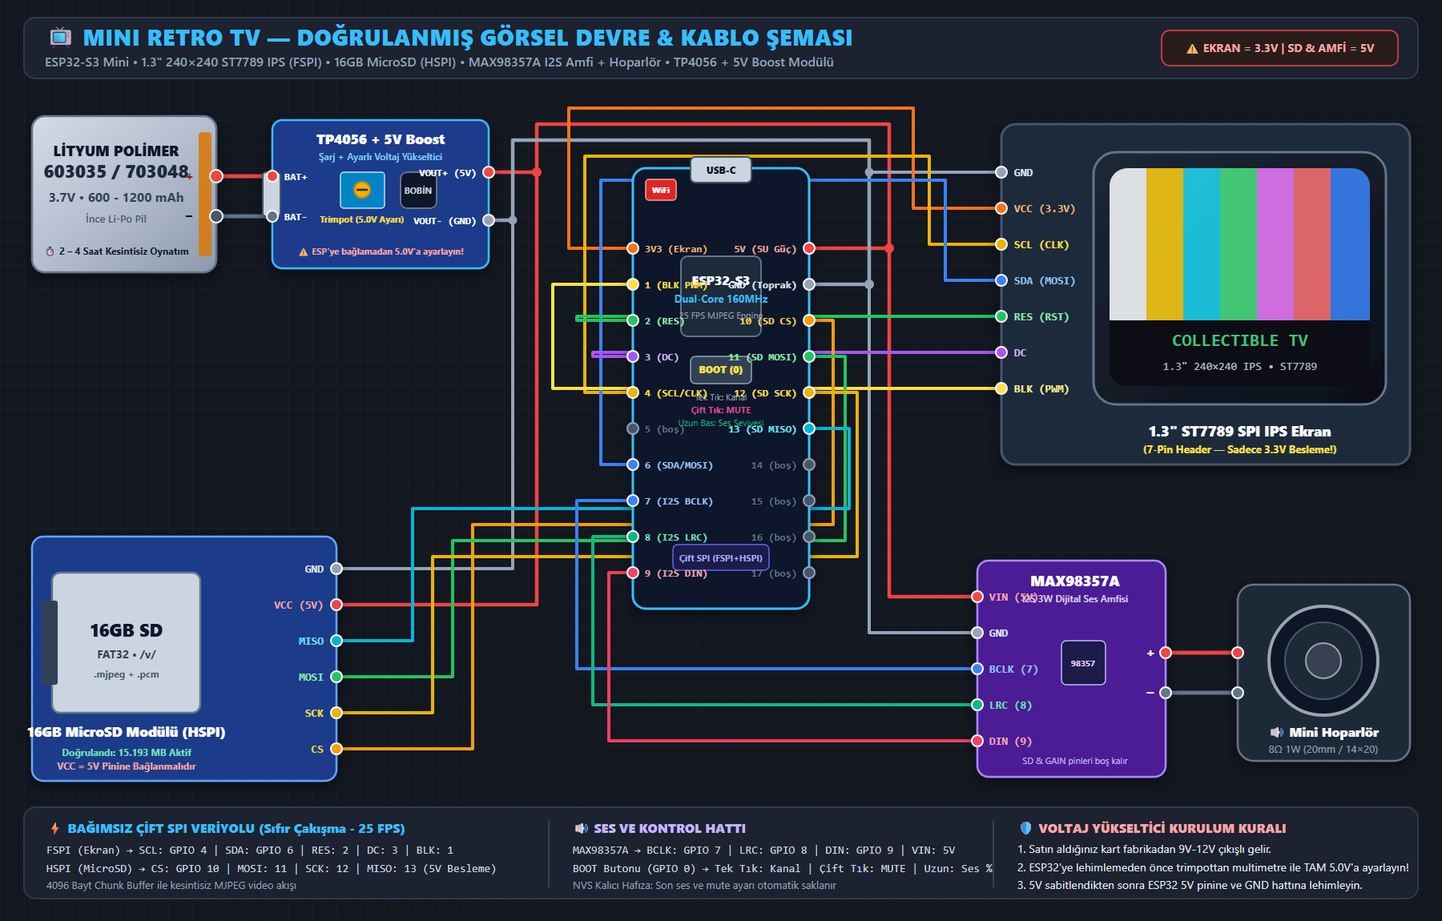
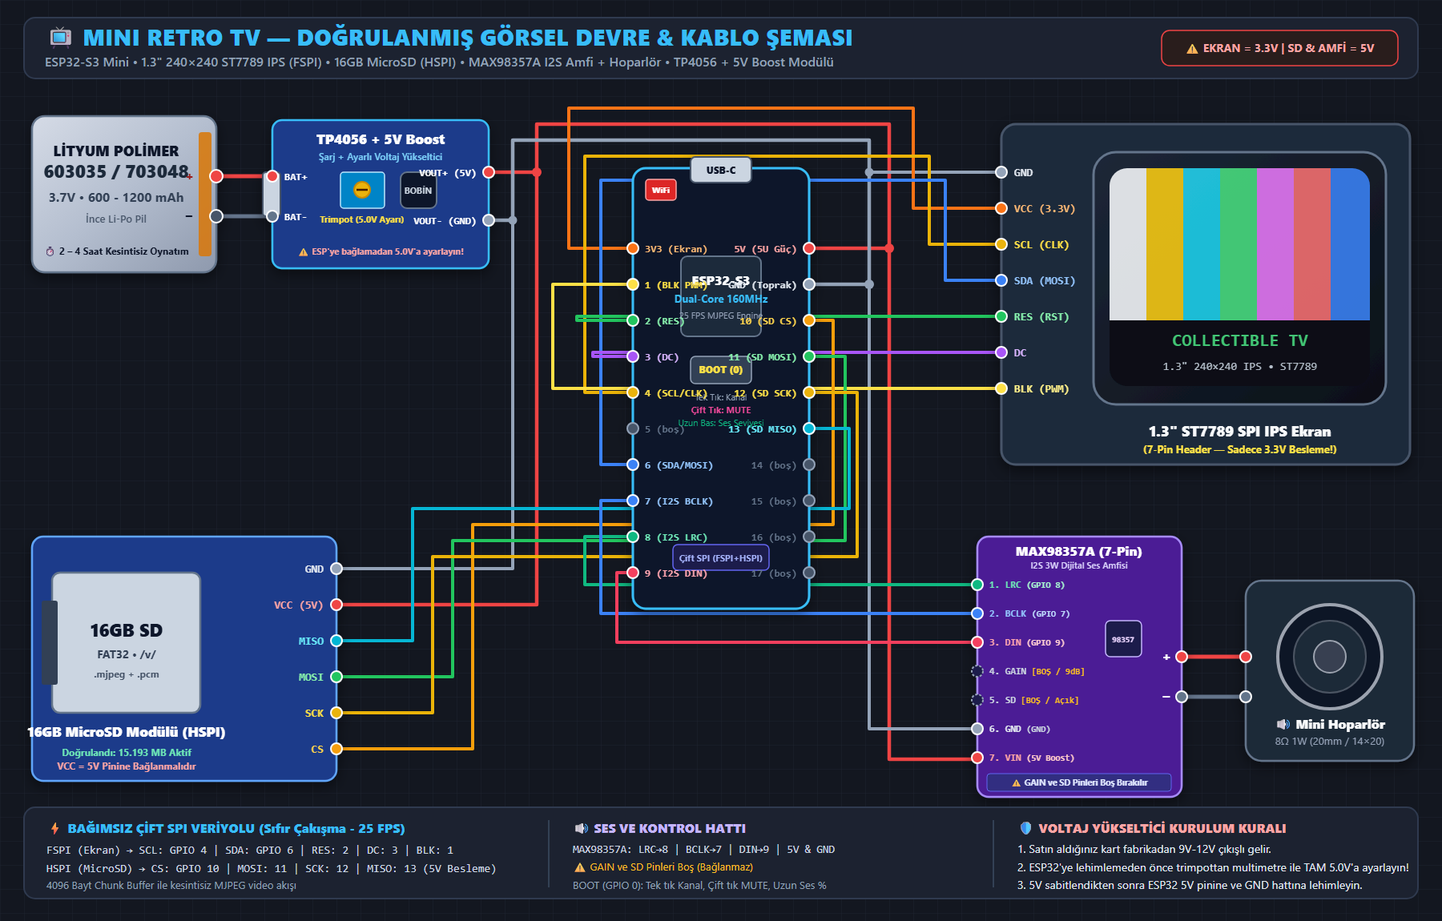
schematics: Update MAX98357A to show all 7 physical pins with GAIN and SD explicitly labeled

Changed region(s): [[0.4044, 0.5783, 0.9956, 0.8826], [0.4044, 0.913, 0.6533, 0.9739]]

diff --git a/docs/baglanti_semasi_13inch.html b/docs/baglanti_semasi_13inch.html
@@ -55,8 +55,8 @@
     <!-- 2. BOOST 5V OUT -> ESP32 5V & SD VCC & MAX98357A VIN -->
     <!-- Boost VOUT+ (610, 215) -> ESP32 Right 5V (1010, 310) -->
     <path d="M 610 215 L 670 215 L 670 155 L 1110 155 L 1110 310 L 1010 310" stroke="#ef4444" stroke-width="4.5"/>
-    <!-- Branch to MAX98357A VIN (1220, 745) -->
-    <path d="M 1110 310 L 1110 745 L 1220 745" stroke="#ef4444" stroke-width="4.5"/>
+    <!-- Branch to MAX98357A VIN (1220, 948) -->
+    <path d="M 1110 310 L 1110 948 L 1220 948" stroke="#ef4444" stroke-width="4.5"/>
     <circle cx="1110" cy="310" r="6" fill="#ef4444"/>
     <!-- Branch to MicroSD VCC (420, 755) via 5V rail -->
     <path d="M 670 215 L 670 755 L 420 755" stroke="#ef4444" stroke-width="4.5"/>
@@ -68,8 +68,8 @@
     <!-- GND to Screen GND (1250, 215) -->
     <path d="M 1085 215 L 1250 215" stroke="#94a3b8" stroke-width="4"/>
     <circle cx="1085" cy="215" r="5.5" fill="#94a3b8"/>
-    <!-- GND to MAX98357A GND (1220, 790) -->
-    <path d="M 1085 355 L 1085 790 L 1220 790" stroke="#94a3b8" stroke-width="4"/>
+    <!-- GND to MAX98357A GND (1220, 910) -->
+    <path d="M 1085 355 L 1085 910 L 1220 910" stroke="#94a3b8" stroke-width="4"/>
     <circle cx="1085" cy="355" r="6" fill="#94a3b8"/>
     <!-- GND to MicroSD GND (420, 710) -->
     <path d="M 640 275 L 640 710 L 420 710" stroke="#94a3b8" stroke-width="4"/>
@@ -107,19 +107,19 @@
     <!-- MISO: ESP32 GPIO 13 (1010, 535) -> MicroSD MISO (420, 800) -->
     <path d="M 1010 535 L 1060 535 L 1060 635 L 515 635 L 515 800 L 420 800" stroke="#06b6d4" stroke-width="4"/>
 
-    <!-- 7. I2S SES HATLARI (MAX98357A) -->
-    <!-- BCLK: ESP32 GPIO 7 (790, 625) -> MAX98357A BCLK (1220, 835) -->
-    <path d="M 790 625 L 720 625 L 720 835 L 1220 835" stroke="#3b82f6" stroke-width="4"/>
+    <!-- 7. I2S SES HATLARI (MAX98357A 7-PIN) -->
+    <!-- LRC: ESP32 GPIO 8 (790, 670) -> MAX98357A LRC (1220, 730) -->
+    <path d="M 790 670 L 730 670 L 730 730 L 1220 730" stroke="#10b981" stroke-width="4"/>
 
-    <!-- LRC: ESP32 GPIO 8 (790, 670) -> MAX98357A LRC (1220, 880) -->
-    <path d="M 790 670 L 740 670 L 740 880 L 1220 880" stroke="#10b981" stroke-width="4"/>
+    <!-- BCLK: ESP32 GPIO 7 (790, 625) -> MAX98357A BCLK (1220, 766) -->
+    <path d="M 790 625 L 750 625 L 750 766 L 1220 766" stroke="#3b82f6" stroke-width="4"/>
 
-    <!-- DIN: ESP32 GPIO 9 (790, 715) -> MAX98357A DIN (1220, 925) -->
-    <path d="M 790 715 L 760 715 L 760 925 L 1220 925" stroke="#f43f5e" stroke-width="4"/>
+    <!-- DIN: ESP32 GPIO 9 (790, 715) -> MAX98357A DIN (1220, 802) -->
+    <path d="M 790 715 L 770 715 L 770 802 L 1220 802" stroke="#f43f5e" stroke-width="4"/>
 
     <!-- MAX98357A +/- -> SPEAKER -->
-    <path d="M 1455 815 L 1545 815" stroke="#ef4444" stroke-width="5"/>
-    <path d="M 1455 865 L 1545 865" stroke="#64748b" stroke-width="5"/>
+    <path d="M 1475 820 L 1555 820" stroke="#ef4444" stroke-width="5"/>
+    <path d="M 1475 870 L 1555 870" stroke="#64748b" stroke-width="5"/>
   </g>
 
   <!-- ==================== 1. LiPo BATTERY ==================== -->
@@ -343,51 +343,67 @@
     </g>
   </g>
 
-  <!-- ==================== 6. MAX98357A I2S AMP + SPEAKER ==================== -->
+  <!-- ==================== 6. MAX98357A I2S AMP (7-PIN REAL) + SPEAKER ==================== -->
   <g filter="url(#shadow)">
-    <rect x="1220" y="700" width="235" height="270" rx="14" fill="#4c1d95" stroke="#a78bfa" stroke-width="2.5"/>
-    <text x="1342" y="732" fill="#ffffff" font-size="18" font-weight="800" text-anchor="middle">MAX98357A</text>
-    <text x="1342" y="752" fill="#ddd6fe" font-size="12" font-weight="600" text-anchor="middle">I2S 3W Dijital Ses Amfisi</text>
+    <rect x="1220" y="670" width="255" height="325" rx="14" fill="#4c1d95" stroke="#a78bfa" stroke-width="2.5"/>
+    <text x="1347" y="694" fill="#ffffff" font-size="16" font-weight="800" text-anchor="middle">MAX98357A (7-Pin)</text>
+    <text x="1347" y="710" fill="#ddd6fe" font-size="11" font-weight="600" text-anchor="middle">I2S 3W Dijital Ses Amfisi</text>
     <!-- Amp IC -->
-    <rect x="1325" y="800" width="55" height="55" rx="6" fill="#1e1b4b" stroke="#c4b5fd" stroke-width="1.5"/>
-    <text x="1352" y="832" fill="#e9d5ff" font-size="11" font-family="Consolas" font-weight="700" text-anchor="middle">98357</text>
-    <text x="1342" y="954" fill="#c4b5fd" font-size="11" text-anchor="middle">SD &amp; GAIN pinleri boş kalır</text>
+    <rect x="1380" y="775" width="45" height="45" rx="6" fill="#1e1b4b" stroke="#c4b5fd" stroke-width="1.5"/>
+    <text x="1402" y="802" fill="#e9d5ff" font-size="10" font-family="Consolas" font-weight="700" text-anchor="middle">98357</text>
 
-    <!-- Left 5 Pins -->
-    <g font-family="Consolas" font-size="14" font-weight="800">
-      <circle cx="1220" cy="745" r="7" fill="#ef4444" stroke="#fff" stroke-width="2"/>
-      <text x="1235" y="750" fill="#fca5a5">VIN (5V)</text>
+    <!-- Real 7 Physical Pins on Left Edge -->
+    <g font-family="Consolas" font-size="12" font-weight="800">
+      <!-- 1. LRC -->
+      <circle cx="1220" cy="730" r="7" fill="#10b981" stroke="#fff" stroke-width="2"/>
+      <text x="1235" y="734" fill="#6ee7b7">1. LRC <tspan fill="#a7f3d0" font-size="11">(GPIO 8)</tspan></text>
 
-      <circle cx="1220" cy="790" r="7" fill="#94a3b8" stroke="#fff" stroke-width="2"/>
-      <text x="1235" y="795" fill="#e2e8f0">GND</text>
+      <!-- 2. BCLK -->
+      <circle cx="1220" cy="766" r="7" fill="#3b82f6" stroke="#fff" stroke-width="2"/>
+      <text x="1235" y="770" fill="#93c5fd">2. BCLK <tspan fill="#bfdbfe" font-size="11">(GPIO 7)</tspan></text>
 
-      <circle cx="1220" cy="835" r="7" fill="#3b82f6" stroke="#fff" stroke-width="2"/>
-      <text x="1235" y="840" fill="#93c5fd">BCLK (7)</text>
+      <!-- 3. DIN -->
+      <circle cx="1220" cy="802" r="7" fill="#f43f5e" stroke="#fff" stroke-width="2"/>
+      <text x="1235" y="806" fill="#fda4af">3. DIN <tspan fill="#fecdd3" font-size="11">(GPIO 9)</tspan></text>
 
-      <circle cx="1220" cy="880" r="7" fill="#10b981" stroke="#fff" stroke-width="2"/>
-      <text x="1235" y="885" fill="#6ee7b7">LRC (8)</text>
+      <!-- 4. GAIN (EMPTY) -->
+      <circle cx="1220" cy="838" r="7" fill="#1e1b4b" stroke="#94a3b8" stroke-width="2" stroke-dasharray="3 2"/>
+      <text x="1235" y="842" fill="#cbd5e1">4. GAIN <tspan fill="#fbbf24" font-size="11">[BOŞ / 9dB]</tspan></text>
 
-      <circle cx="1220" cy="925" r="7" fill="#f43f5e" stroke="#fff" stroke-width="2"/>
-      <text x="1235" y="930" fill="#fda4af">DIN (9)</text>
+      <!-- 5. SD (EMPTY) -->
+      <circle cx="1220" cy="874" r="7" fill="#1e1b4b" stroke="#94a3b8" stroke-width="2" stroke-dasharray="3 2"/>
+      <text x="1235" y="878" fill="#cbd5e1">5. SD <tspan fill="#fbbf24" font-size="11">[BOŞ / Açık]</tspan></text>
+
+      <!-- 6. GND -->
+      <circle cx="1220" cy="910" r="7" fill="#94a3b8" stroke="#fff" stroke-width="2"/>
+      <text x="1235" y="914" fill="#e2e8f0">6. GND <tspan fill="#cbd5e1" font-size="11">(GND)</tspan></text>
+
+      <!-- 7. VIN (5V) -->
+      <circle cx="1220" cy="946" r="7" fill="#ef4444" stroke="#fff" stroke-width="2"/>
+      <text x="1235" y="950" fill="#fca5a5">7. VIN <tspan fill="#fecaca" font-size="11">(5V Boost)</tspan></text>
     </g>
 
+    <!-- Info Pill at bottom -->
+    <rect x="1232" y="966" width="230" height="22" rx="4" fill="#312e81" stroke="#6366f1" stroke-width="1"/>
+    <text x="1347" y="981" fill="#e0e7ff" font-size="10.5" font-weight="700" text-anchor="middle">⚠ GAIN ve SD Pinleri Boş Bırakılır</text>
+
     <!-- Speaker output terminals -->
-    <circle cx="1455" cy="815" r="7" fill="#ef4444" stroke="#fff" stroke-width="2"/>
-    <text x="1442" y="820" fill="#fff" font-size="16" font-weight="900" text-anchor="end">+</text>
-    <circle cx="1455" cy="865" r="7" fill="#64748b" stroke="#fff" stroke-width="2"/>
-    <text x="1442" y="870" fill="#fff" font-size="18" font-weight="900" text-anchor="end">−</text>
+    <circle cx="1475" cy="820" r="7" fill="#ef4444" stroke="#fff" stroke-width="2"/>
+    <text x="1462" y="825" fill="#fff" font-size="16" font-weight="900" text-anchor="end">+</text>
+    <circle cx="1475" cy="870" r="7" fill="#64748b" stroke="#fff" stroke-width="2"/>
+    <text x="1462" y="875" fill="#fff" font-size="18" font-weight="900" text-anchor="end">−</text>
   </g>
 
   <!-- Mini Speaker (8 Ohm 1W) -->
   <g filter="url(#shadow)">
-    <rect x="1545" y="730" width="215" height="220" rx="20" fill="#1f2937" stroke="#64748b" stroke-width="2.5"/>
-    <circle cx="1652" cy="825" r="68" fill="#111827" stroke="#9ca3af" stroke-width="4"/>
-    <circle cx="1652" cy="825" r="48" fill="#1f2937" stroke="#4b5563" stroke-width="2"/>
-    <circle cx="1652" cy="825" r="22" fill="#374151" stroke="#9ca3af" stroke-width="2"/>
-    <text x="1652" y="920" fill="#f8fafc" font-size="16" font-weight="800" text-anchor="middle">🔊 Mini Hoparlör</text>
-    <text x="1652" y="940" fill="#94a3b8" font-size="13" text-anchor="middle">8Ω 1W (20mm / 14×20)</text>
-    <circle cx="1545" cy="815" r="7" fill="#ef4444" stroke="#fff" stroke-width="2"/>
-    <circle cx="1545" cy="865" r="7" fill="#64748b" stroke="#fff" stroke-width="2"/>
+    <rect x="1555" y="725" width="210" height="225" rx="20" fill="#1f2937" stroke="#64748b" stroke-width="2.5"/>
+    <circle cx="1660" cy="820" r="65" fill="#111827" stroke="#9ca3af" stroke-width="4"/>
+    <circle cx="1660" cy="820" r="45" fill="#1f2937" stroke="#4b5563" stroke-width="2"/>
+    <circle cx="1660" cy="820" r="20" fill="#374151" stroke="#9ca3af" stroke-width="2"/>
+    <text x="1660" y="910" fill="#f8fafc" font-size="16" font-weight="800" text-anchor="middle">🔊 Mini Hoparlör</text>
+    <text x="1660" y="930" fill="#94a3b8" font-size="13" text-anchor="middle">8Ω 1W (20mm / 14×20)</text>
+    <circle cx="1555" cy="820" r="7" fill="#ef4444" stroke="#fff" stroke-width="2"/>
+    <circle cx="1555" cy="870" r="7" fill="#64748b" stroke="#fff" stroke-width="2"/>
   </g>
 
   <!-- ==================== BOTTOM SUMMARY BAR ==================== -->
@@ -402,9 +418,9 @@
   <!-- Col 2: Audio I2S & Button -->
   <line x1="685" y1="1024" x2="685" y2="1108" stroke="#334155" stroke-width="2"/>
   <text x="715" y="1040" fill="#c4b5fd" font-size="16" font-weight="800">🔊 SES VE KONTROL HATTI</text>
-  <text x="715" y="1066" fill="#cbd5e1" font-size="14" font-family="Consolas">MAX98357A → BCLK: GPIO 7  |  LRC: GPIO 8  |  DIN: GPIO 9  |  VIN: 5V</text>
-  <text x="715" y="1089" fill="#cbd5e1" font-size="14" font-family="Consolas">BOOT Butonu (GPIO 0) → Tek Tık: Kanal  |  Çift Tık: MUTE  |  Uzun: Ses %</text>
-  <text x="715" y="1110" fill="#94a3b8" font-size="13">NVS Kalıcı Hafıza: Son ses ve mute ayarı otomatik saklanır</text>
+  <text x="715" y="1065" fill="#cbd5e1" font-size="13.5" font-family="Consolas">MAX98357A: LRC→8 | BCLK→7 | DIN→9 | 5V &amp; GND</text>
+  <text x="715" y="1087" fill="#fbbf24" font-size="13">⚠ GAIN ve SD Pinleri Boş (Bağlanmaz)</text>
+  <text x="715" y="1110" fill="#94a3b8" font-size="13">BOOT (GPIO 0): Tek tık Kanal, Çift tık MUTE, Uzun Ses %</text>
 
   <!-- Col 3: Boost Safety -->
   <line x1="1240" y1="1024" x2="1240" y2="1108" stroke="#334155" stroke-width="2"/>

diff --git a/docs/eski_baglanti_semasi.html b/docs/eski_baglanti_semasi.html
@@ -55,8 +55,8 @@
     <!-- TP4056 OUT+ (5V/BAT) -> ESP32 5V & MAX98357A VIN -->
     <!-- TP4056 OUT+ is at (590, 215). Route to ESP32 right-side 5V (1010, 310) via top bus -->
     <path d="M 590 215 L 650 215 L 650 155 L 1110 155 L 1110 310 L 1010 310" stroke="#ef4444" stroke-width="4.5"/>
-    <!-- Branch down from 5V rail to MAX98357A VIN (1220, 745) -->
-    <path d="M 1110 310 L 1110 745 L 1220 745" stroke="#ef4444" stroke-width="4.5"/>
+    <!-- Branch down from 5V rail to MAX98357A VIN (1220, 946) -->
+    <path d="M 1110 310 L 1110 946 L 1220 946" stroke="#ef4444" stroke-width="4.5"/>
     <circle cx="1110" cy="310" r="6" fill="#ef4444"/>
 
     <!-- TP4056 OUT- (GND) -> Common GND rail -->
@@ -65,8 +65,8 @@
     <!-- GND branch to Screen GND (1250, 215) -->
     <path d="M 1090 215 L 1250 215" stroke="#94a3b8" stroke-width="4"/>
     <circle cx="1090" cy="215" r="5.5" fill="#94a3b8"/>
-    <!-- GND branch to MAX98357A GND (1220, 790) -->
-    <path d="M 1090 355 L 1090 790 L 1220 790" stroke="#94a3b8" stroke-width="4"/>
+    <!-- GND branch to MAX98357A GND (1220, 910) -->
+    <path d="M 1090 355 L 1090 910 L 1220 910" stroke="#94a3b8" stroke-width="4"/>
     <circle cx="1090" cy="355" r="6" fill="#94a3b8"/>
     <!-- GND branch to MicroSD GND (420, 710) -->
     <path d="M 632 275 L 632 710 L 420 710" stroke="#94a3b8" stroke-width="4"/>
@@ -106,18 +106,18 @@
     <!-- MicroSD CS: ESP32 GPIO20 (790, 580) -> MicroSD CS (420, 935) -->
     <path d="M 790 580 L 732 580 L 732 935 L 420 935" stroke="#f59e0b" stroke-width="4"/>
 
-    <!-- I2S BCLK: ESP32 GPIO0 (1010, 625) -> MAX98357A BCLK (1220, 835) -->
-    <path d="M 1010 625 L 1035 625 L 1035 835 L 1220 835" stroke="#3b82f6" stroke-width="4"/>
+    <!-- I2S BCLK: ESP32 GPIO0 (1010, 625) -> MAX98357A BCLK (1220, 766) -->
+    <path d="M 1010 625 L 1035 625 L 1035 766 L 1220 766" stroke="#3b82f6" stroke-width="4"/>
 
-    <!-- I2S LRC: ESP32 GPIO10 (790, 535) -> MAX98357A LRC (1220, 880) -->
-    <path d="M 790 535 L 754 535 L 754 880 L 1220 880" stroke="#10b981" stroke-width="4"/>
+    <!-- I2S LRC: ESP32 GPIO10 (790, 535) -> MAX98357A LRC (1220, 730) -->
+    <path d="M 790 535 L 754 535 L 754 730 L 1220 730" stroke="#10b981" stroke-width="4"/>
 
-    <!-- I2S DIN: ESP32 GPIO21 (790, 625) -> MAX98357A DIN (1220, 925) -->
-    <path d="M 790 625 L 772 625 L 772 925 L 1220 925" stroke="#f43f5e" stroke-width="4"/>
+    <!-- I2S DIN: ESP32 GPIO21 (790, 625) -> MAX98357A DIN (1220, 802) -->
+    <path d="M 790 625 L 772 625 L 772 802 L 1220 802" stroke="#f43f5e" stroke-width="4"/>
 
     <!-- MAX98357A +/- -> SPEAKER -->
-    <path d="M 1455 815 L 1545 815" stroke="#ef4444" stroke-width="5"/>
-    <path d="M 1455 865 L 1545 865" stroke="#64748b" stroke-width="5"/>
+    <path d="M 1475 820 L 1555 820" stroke="#ef4444" stroke-width="5"/>
+    <path d="M 1475 870 L 1555 870" stroke="#64748b" stroke-width="5"/>
   </g>
 
   <!-- ==================== 1. POWERMASTER 603035 LiPo BATTERY ==================== -->
@@ -319,51 +319,67 @@
     </g>
   </g>
 
-  <!-- ==================== 6. MAX98357A I2S AMP + SPEAKER (BOTTOM-RIGHT) ==================== -->
+  <!-- ==================== 6. MAX98357A I2S AMP (7-PIN REAL) + SPEAKER ==================== -->
   <g filter="url(#shadow)">
-    <rect x="1220" y="700" width="235" height="270" rx="14" fill="#4c1d95" stroke="#a78bfa" stroke-width="2.5"/>
-    <text x="1342" y="732" fill="#ffffff" font-size="18" font-weight="800" text-anchor="middle">MAX98357A</text>
-    <text x="1342" y="752" fill="#ddd6fe" font-size="12" font-weight="600" text-anchor="middle">I2S 3W Dijital Ses Amfisi</text>
+    <rect x="1220" y="670" width="255" height="325" rx="14" fill="#4c1d95" stroke="#a78bfa" stroke-width="2.5"/>
+    <text x="1347" y="694" fill="#ffffff" font-size="16" font-weight="800" text-anchor="middle">MAX98357A (7-Pin)</text>
+    <text x="1347" y="710" fill="#ddd6fe" font-size="11" font-weight="600" text-anchor="middle">I2S 3W Dijital Ses Amfisi</text>
     <!-- Amp IC -->
-    <rect x="1325" y="800" width="55" height="55" rx="6" fill="#1e1b4b" stroke="#c4b5fd" stroke-width="1.5"/>
-    <text x="1352" y="832" fill="#e9d5ff" font-size="11" font-family="Consolas" font-weight="700" text-anchor="middle">98357</text>
-    <text x="1342" y="954" fill="#c4b5fd" font-size="11" text-anchor="middle">SD &amp; GAIN pinleri boş kalır</text>
+    <rect x="1380" y="775" width="45" height="45" rx="6" fill="#1e1b4b" stroke="#c4b5fd" stroke-width="1.5"/>
+    <text x="1402" y="802" fill="#e9d5ff" font-size="10" font-family="Consolas" font-weight="700" text-anchor="middle">98357</text>
 
-    <!-- Left 5 Pins -->
-    <g font-family="Consolas" font-size="14" font-weight="800">
-      <circle cx="1220" cy="745" r="7" fill="#ef4444" stroke="#fff" stroke-width="2"/>
-      <text x="1235" y="750" fill="#fca5a5">VIN (5V)</text>
+    <!-- Real 7 Physical Pins on Left Edge -->
+    <g font-family="Consolas" font-size="12" font-weight="800">
+      <!-- 1. LRC -->
+      <circle cx="1220" cy="730" r="7" fill="#10b981" stroke="#fff" stroke-width="2"/>
+      <text x="1235" y="734" fill="#6ee7b7">1. LRC <tspan fill="#a7f3d0" font-size="11">(GPIO 10)</tspan></text>
 
-      <circle cx="1220" cy="790" r="7" fill="#94a3b8" stroke="#fff" stroke-width="2"/>
-      <text x="1235" y="795" fill="#e2e8f0">GND</text>
+      <!-- 2. BCLK -->
+      <circle cx="1220" cy="766" r="7" fill="#3b82f6" stroke="#fff" stroke-width="2"/>
+      <text x="1235" y="770" fill="#93c5fd">2. BCLK <tspan fill="#bfdbfe" font-size="11">(GPIO 0)</tspan></text>
 
-      <circle cx="1220" cy="835" r="7" fill="#3b82f6" stroke="#fff" stroke-width="2"/>
-      <text x="1235" y="840" fill="#93c5fd">BCLK</text>
+      <!-- 3. DIN -->
+      <circle cx="1220" cy="802" r="7" fill="#f43f5e" stroke="#fff" stroke-width="2"/>
+      <text x="1235" y="806" fill="#fda4af">3. DIN <tspan fill="#fecdd3" font-size="11">(GPIO 21)</tspan></text>
 
-      <circle cx="1220" cy="880" r="7" fill="#10b981" stroke="#fff" stroke-width="2"/>
-      <text x="1235" y="885" fill="#6ee7b7">LRC</text>
+      <!-- 4. GAIN (EMPTY) -->
+      <circle cx="1220" cy="838" r="7" fill="#1e1b4b" stroke="#94a3b8" stroke-width="2" stroke-dasharray="3 2"/>
+      <text x="1235" y="842" fill="#cbd5e1">4. GAIN <tspan fill="#fbbf24" font-size="11">[BOŞ / 9dB]</tspan></text>
 
-      <circle cx="1220" cy="925" r="7" fill="#f43f5e" stroke="#fff" stroke-width="2"/>
-      <text x="1235" y="930" fill="#fda4af">DIN</text>
+      <!-- 5. SD (EMPTY) -->
+      <circle cx="1220" cy="874" r="7" fill="#1e1b4b" stroke="#94a3b8" stroke-width="2" stroke-dasharray="3 2"/>
+      <text x="1235" y="878" fill="#cbd5e1">5. SD <tspan fill="#fbbf24" font-size="11">[BOŞ / Açık]</tspan></text>
+
+      <!-- 6. GND -->
+      <circle cx="1220" cy="910" r="7" fill="#94a3b8" stroke="#fff" stroke-width="2"/>
+      <text x="1235" y="914" fill="#e2e8f0">6. GND <tspan fill="#cbd5e1" font-size="11">(GND)</tspan></text>
+
+      <!-- 7. VIN (5V) -->
+      <circle cx="1220" cy="946" r="7" fill="#ef4444" stroke="#fff" stroke-width="2"/>
+      <text x="1235" y="950" fill="#fca5a5">7. VIN <tspan fill="#fecaca" font-size="11">(OUT+ / 5V)</tspan></text>
     </g>
 
+    <!-- Info Pill at bottom -->
+    <rect x="1232" y="966" width="230" height="22" rx="4" fill="#312e81" stroke="#6366f1" stroke-width="1"/>
+    <text x="1347" y="981" fill="#e0e7ff" font-size="10.5" font-weight="700" text-anchor="middle">⚠ GAIN ve SD Pinleri Boş Bırakılır</text>
+
     <!-- Speaker output terminals -->
-    <circle cx="1455" cy="815" r="7" fill="#ef4444" stroke="#fff" stroke-width="2"/>
-    <text x="1442" y="820" fill="#fff" font-size="16" font-weight="900" text-anchor="end">+</text>
-    <circle cx="1455" cy="865" r="7" fill="#64748b" stroke="#fff" stroke-width="2"/>
-    <text x="1442" y="870" fill="#fff" font-size="18" font-weight="900" text-anchor="end">−</text>
+    <circle cx="1475" cy="820" r="7" fill="#ef4444" stroke="#fff" stroke-width="2"/>
+    <text x="1462" y="825" fill="#fff" font-size="16" font-weight="900" text-anchor="end">+</text>
+    <circle cx="1475" cy="870" r="7" fill="#64748b" stroke="#fff" stroke-width="2"/>
+    <text x="1462" y="875" fill="#fff" font-size="18" font-weight="900" text-anchor="end">−</text>
   </g>
 
   <!-- Mini Speaker (8 Ohm 1W) -->
   <g filter="url(#shadow)">
-    <rect x="1545" y="730" width="215" height="220" rx="20" fill="#1f2937" stroke="#64748b" stroke-width="2.5"/>
-    <circle cx="1652" cy="825" r="68" fill="#111827" stroke="#9ca3af" stroke-width="4"/>
-    <circle cx="1652" cy="825" r="48" fill="#1f2937" stroke="#4b5563" stroke-width="2"/>
-    <circle cx="1652" cy="825" r="22" fill="#374151" stroke="#9ca3af" stroke-width="2"/>
-    <text x="1652" y="920" fill="#f8fafc" font-size="16" font-weight="800" text-anchor="middle">🔊 Mini Hoparlör</text>
-    <text x="1652" y="940" fill="#94a3b8" font-size="13" text-anchor="middle">8Ω 1W (20mm / 14×20)</text>
-    <circle cx="1545" cy="815" r="7" fill="#ef4444" stroke="#fff" stroke-width="2"/>
-    <circle cx="1545" cy="865" r="7" fill="#64748b" stroke="#fff" stroke-width="2"/>
+    <rect x="1555" y="725" width="210" height="225" rx="20" fill="#1f2937" stroke="#64748b" stroke-width="2.5"/>
+    <circle cx="1660" cy="820" r="65" fill="#111827" stroke="#9ca3af" stroke-width="4"/>
+    <circle cx="1660" cy="820" r="45" fill="#1f2937" stroke="#4b5563" stroke-width="2"/>
+    <circle cx="1660" cy="820" r="20" fill="#374151" stroke="#9ca3af" stroke-width="2"/>
+    <text x="1660" y="910" fill="#f8fafc" font-size="16" font-weight="800" text-anchor="middle">🔊 Mini Hoparlör</text>
+    <text x="1660" y="930" fill="#94a3b8" font-size="13" text-anchor="middle">8Ω 1W (20mm / 14×20)</text>
+    <circle cx="1555" cy="820" r="7" fill="#ef4444" stroke="#fff" stroke-width="2"/>
+    <circle cx="1555" cy="870" r="7" fill="#64748b" stroke="#fff" stroke-width="2"/>
   </g>
 
   <!-- ==================== BOTTOM SUMMARY / SAFETY BAR ==================== -->

diff --git a/BAGLANTI_SEMASI.md b/BAGLANTI_SEMASI.md
@@ -48,18 +48,20 @@ Bu bağlantı bizzat fiziksel olarak test edilmiş ve **15.193 MB (16GB) MicroSD
 
 ---
 
-### C. MAX98357A I2S 3W Ses Amfisi + Hoparlör ↔ ESP32-S3
+### C. MAX98357A I2S 3W Ses Amfisi (7-Pin Header) + Hoparlör ↔ ESP32-S3
 
-| MAX98357A Pini | ESP32-S3 Pini | Açıklama / Not |
-| :--- | :--- | :--- |
-| **VIN** | **5V (5U)** | 2.5V–5.5V besleme (ESP32 3.3V hattını yormaz, temiz ve gür ses verir) |
-| **GND** | **GND** | Ortak Toprak |
-| **BCLK** | **GPIO 7** | I2S Bit Clock (Saat) |
-| **LRC** | **GPIO 8** | I2S Word Select (Sol/Sağ Kanal) |
-| **DIN** | **GPIO 9** | I2S Data In (Ses Verisi) |
-| **`+` / `-`** | **Mini Hoparlör** | 8Ω 1W mini hoparlör uçlarına bağlanır |
+Fiziksel kart üzerindeki 7 pinin sırasıyla bağlantı durumu:
 
-*(Not: Amfi üzerindeki `SD` ve `GAIN` pinleri boş bırakılır; varsayılan 9 dB ses kazancında çalışır).*
+| # | MAX98357A Pini | ESP32-S3 Pini | Durum | Açıklama / Görevi |
+|:---:|:---|:---|:---:|:---|
+| **1** | **LRC** | **GPIO 8** | Bağlı | I2S Word Select / Sol-Sağ Kanal Sinyali |
+| **2** | **BCLK** | **GPIO 7** | Bağlı | I2S Bit Clock (Ses Saat Sinyali) |
+| **3** | **DIN** | **GPIO 9** | Bağlı | I2S Data In (Sayısal Ses Verisi) |
+| **4** | **GAIN** | *(Boş)* | **BOŞ** | **Bağlanmaz!** Boş bırakıldığında varsayılan 9 dB temiz kazançta çalışır |
+| **5** | **SD** | *(Boş)* | **BOŞ** | **Bağlanmaz!** Boş bırakıldığında amfi açık kalır ve stereo sesi mono olarak birleştirir `(L+R)/2` |
+| **6** | **GND** | **GND** | Bağlı | Ortak Toprak Hattı |
+| **7** | **VIN** | **5V (5U)** | Bağlı | 5V Güç Beslemesi (Hoparlörden 3W tam ve net güç almak için) |
+| — | **`+` / `−`** | **Hoparlör** | Bağlı | 8Ω 1W mini hoparlör uçlarına lehimlenir (+ Kırmızı, − Siyah) |
 
 ---
 

diff --git a/README.md b/README.md
@@ -82,13 +82,15 @@ Figür ve diorama rafları için avuç içi / masaüstü boyutunda, **1.3" IPS c
 * **SCK** $\rightarrow`GPIO 12`
 * **MISO** $\rightarrow`GPIO 13`
 
-### MAX98357A I2S 3W Ses Amfisi & Hoparlör
-* **VIN** $\rightarrow`5V (5U)`
-* **GND** $\rightarrow`GND`
-* **BCLK** $\rightarrow`GPIO 7`
-* **LRC** $\rightarrow`GPIO 8`
-* **DIN** $\rightarrow`GPIO 9`
-* **`+` / `-`** $\rightarrow$ 8Ω 1W-2W Mini Hoparlör
+### MAX98357A I2S 3W Ses Amfisi & Hoparlör (7-Pin Modül)
+* **1. LRC** $\rightarrow$ `GPIO 8` *(Left/Right Word Clock)*
+* **2. BCLK** $\rightarrow$ `GPIO 7` *(Bit Clock)*
+* **3. DIN** $\rightarrow$ `GPIO 9` *(Data In / Ses Verisi)*
+* **4. GAIN** $\rightarrow$ **BOŞ (Bağlanmaz)** *(Varsayılan 9 dB temiz kazanç)*
+* **5. SD** $\rightarrow$ **BOŞ (Bağlanmaz)** *(Varsayılan Açık / Mono birleştirme)*
+* **6. GND** $\rightarrow$ `GND`
+* **7. VIN** $\rightarrow$ **`5V (5U)`** *(3W tam ses çıkış gücü için 5V besleme)*
+* **`+` / `−` (Hoparlör Klemens)** $\rightarrow$ 8Ω 1W Mini Hoparlör (+ Kırmızı, − Siyah)
 
 ### TP4056 + 5V Boost Voltaj Yükseltici & Li-Po Pil
 * **BAT+ / BAT-** $\rightarrow$ 3.7V Li-Po Pil (603035 / 703048)

diff --git a/MONTAJ_VE_BAGLANTI_REHBERI.md b/MONTAJ_VE_BAGLANTI_REHBERI.md
@@ -40,6 +40,17 @@ Tüm donanım bir araya getirildiğinde (1.3" ST7789 Ekran + ESP32-S3 + 16GB Mic
   <img src="docs/baglanti_semasi_13inch.png" alt="Tam Proje Şeması 1.3 inç" width="100%">
 </p>
 
+### 🔊 MAX98357A I2S Amfi 7-Pin Bağlantı Tablosu:
+Kart üzerinde yan yana dizili bulunan 7 pinin sırasıyla montaj durumu:
+* **1. LRC** $\rightarrow$ ESP32-S3 `GPIO 8` *(Left/Right Clock)*
+* **2. BCLK** $\rightarrow$ ESP32-S3 `GPIO 7` *(Bit Clock)*
+* **3. DIN** $\rightarrow$ ESP32-S3 `GPIO 9` *(Data In / Ses Verisi)*
+* **4. GAIN** $\rightarrow$ **BOŞ (Bağlanmaz)** *(Varsayılan 9 dB temiz kazanç)*
+* **5. SD** $\rightarrow$ **BOŞ (Bağlanmaz)** *(Varsayılan Açık / Stereo-Mono birleştirme)*
+* **6. GND** $\rightarrow$ Ortak `GND`
+* **7. VIN** $\rightarrow$ **`5V (5U)`** *(3W ses gücü için 5V hattına bağlanır)*
+* **Hoparlör Klemensleri (`+` / `−`):** 8Ω 1W mini hoparlör uçlarına lehimlenir (+ Kırmızı, − Siyah).
+
 ### Alternatif 1.69" Kompakt Donanım Şeması (ESP32-C3 SuperMini)
 <p align="center">
   <img src="docs/baglanti_semasi.png" alt="Orijinal 1.69 inç Şema" width="100%">
